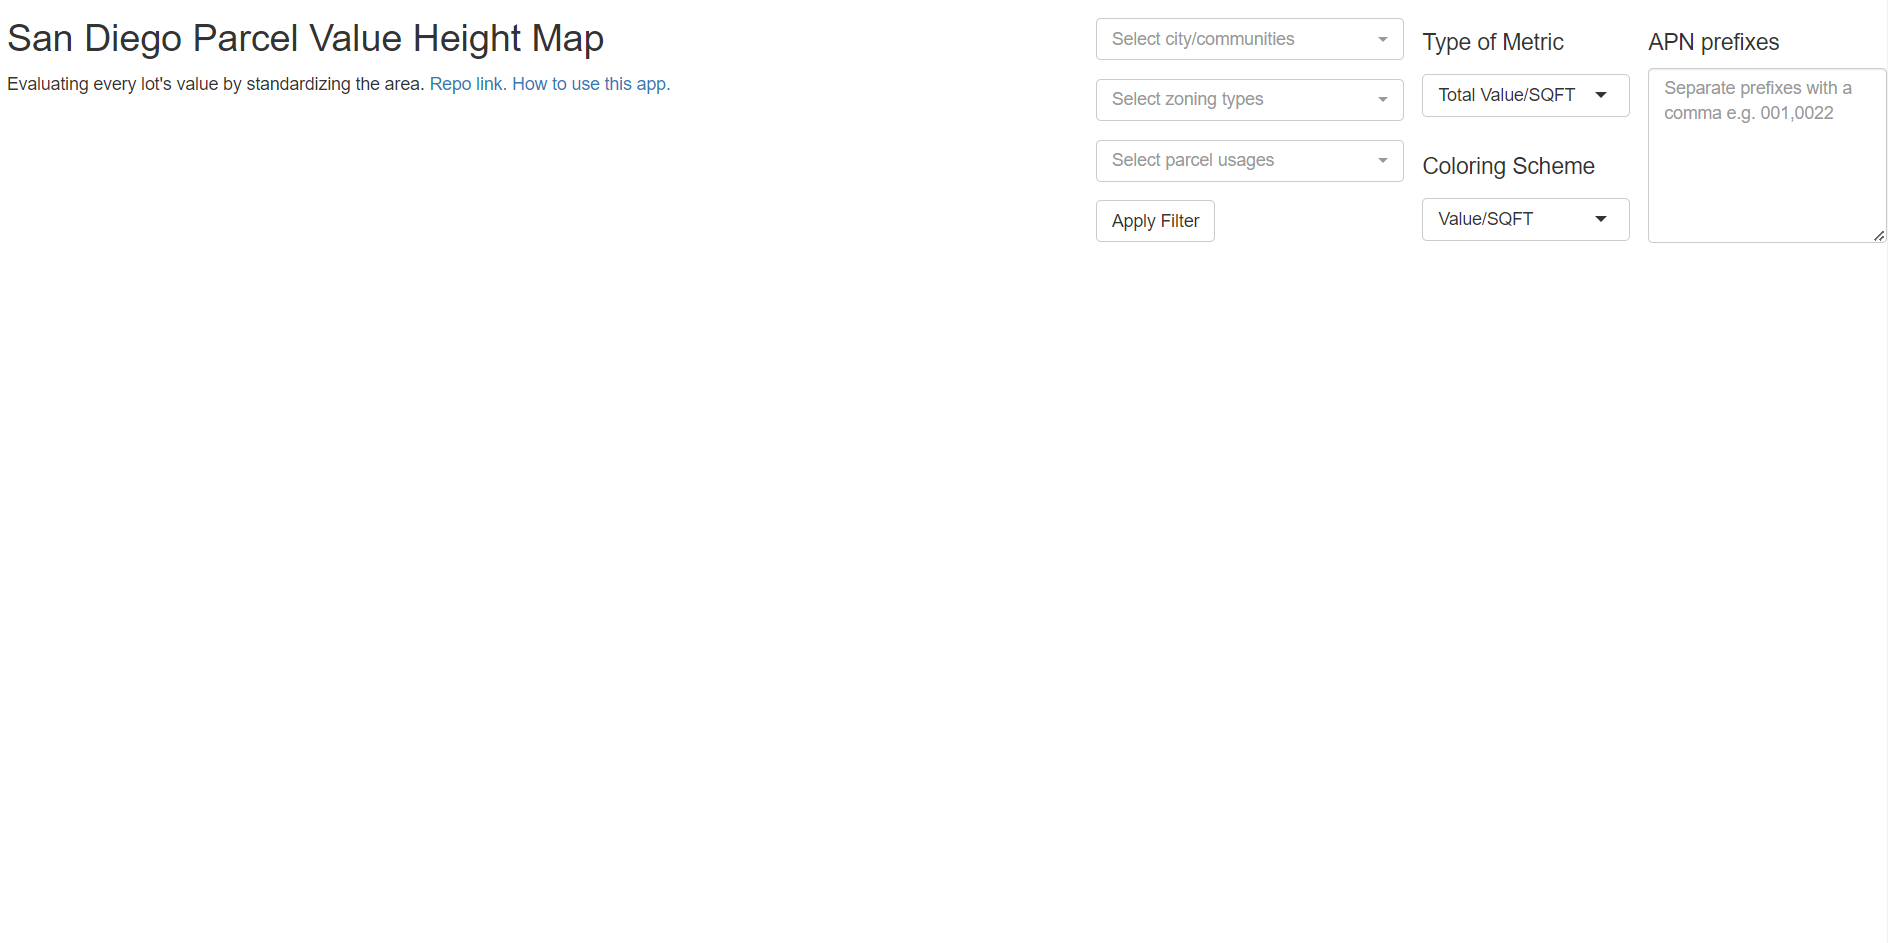
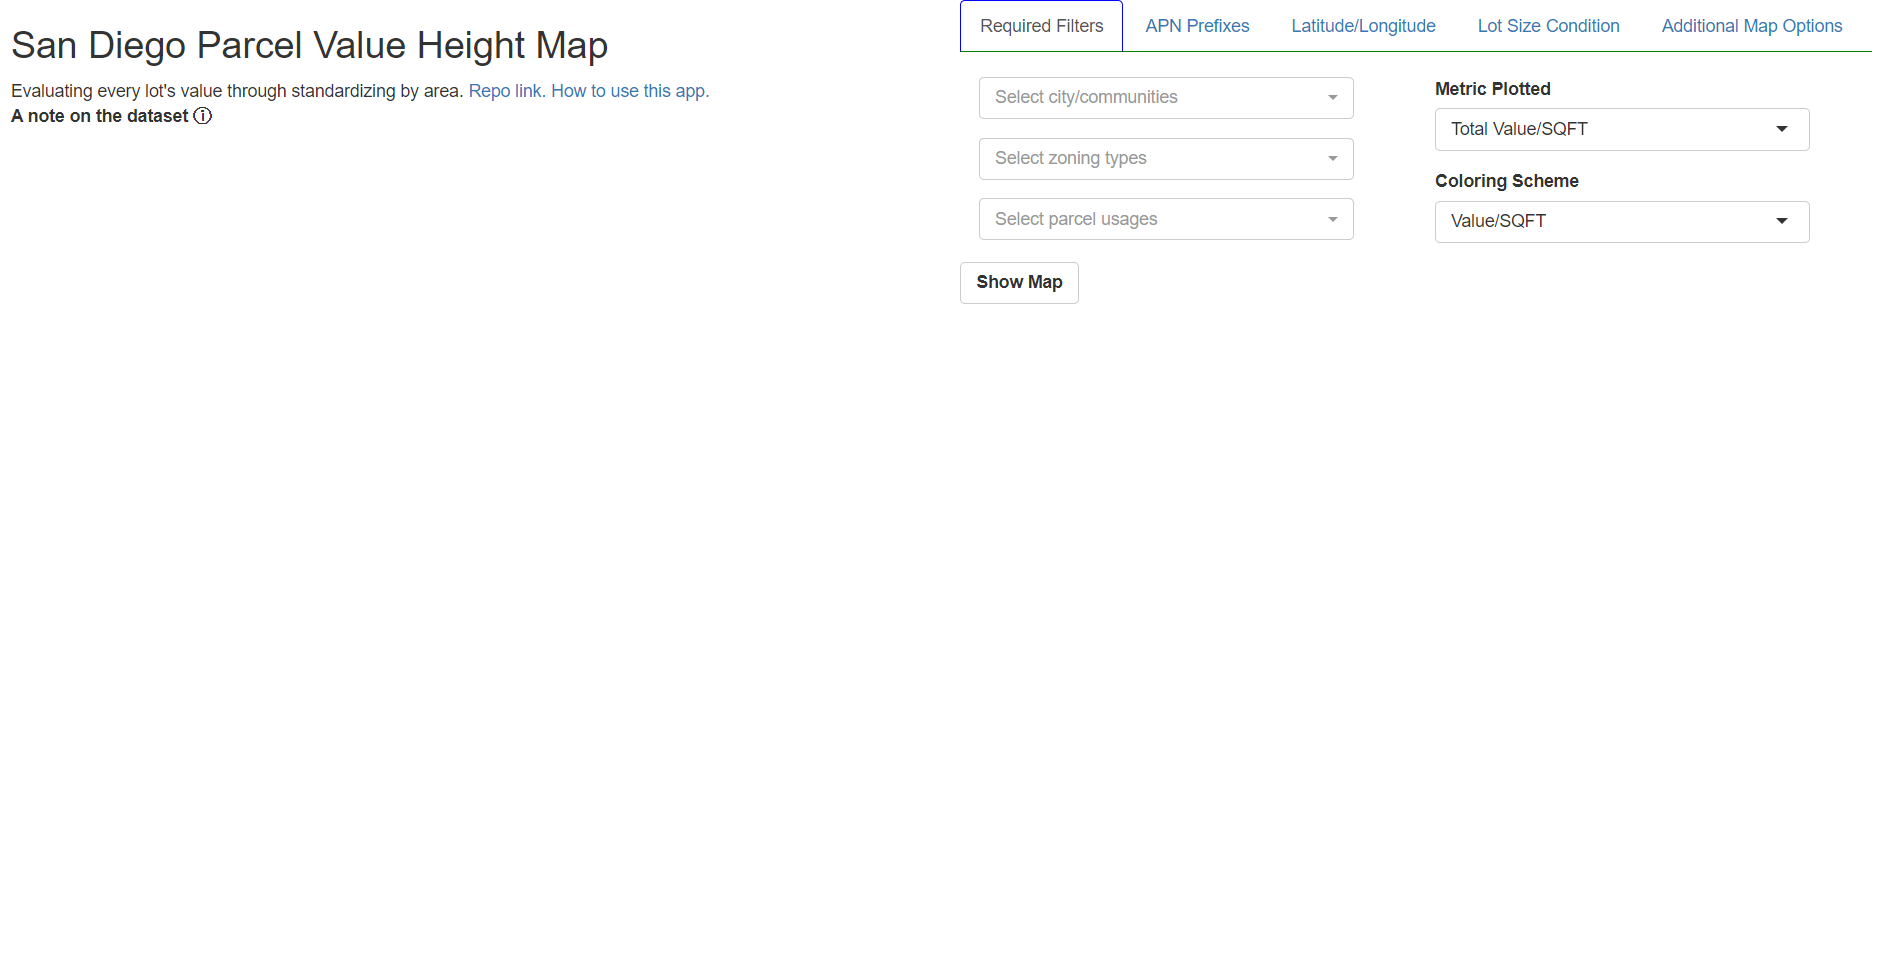
updated README tutorial for new version of dashboard

Changed region(s): [[0.5, 0.0, 0.9688, 0.246], [0.0, 0.0308, 0.375, 0.123], [0.5, 0.2768, 0.5625, 0.3075]]

diff --git a/README.md b/README.md
@@ -1,35 +1,74 @@
 # The value of standardizing value by area
-**The screenshots are taken from older versions of the dashboard.**
-The dashboard shows value/sqft of every taxable parcel in San Diego County. Why value/sqft instead of just value? Because land is the most important resource for the government and we measure yield with a standardized area. To illustrate the immense differences in value/sqft, I will compare the most expensive mansion in La Jolla and a Section 8 housing unit that used to be "where you bought weed".
+**Some screenshots are taken from older versions of the dashboard.**
+The dashboard shows value/sqft of every taxable parcel in San Diego County. Why value/sqft instead of just value? Because land is the most important resource for the government and we measure yield within a standardized area. To illustrate the immense differences in value/sqft, I will compare the most expensive mansion in La Jolla and a Section 8 housing unit that used to be "where you bought weed".
 
 Foxhill Estates is the most expensive property in La Jolla, spanning over 30 acres and just sold at $35 million. That means it is assessed at $25/sqft. In contrast, Meadowbrook Apartments in Bay Terrace is a Section 8 housing unit that houses more than 200 households. It used to be a very sketchy place, albeit in the past 10 years it has been improving. It is assessed at $65/sqft - 280% that of Foxhill Estate's. Therefore for the public to evaluate the efficacy of land, just looking at market or assessed value is not enough. The value must be standardized by area for it to be meaningful.
 
 I am using this methodology to write a paper on how high residential water usage and low property tax efficiency are connected in San Diego.
 
+I have given the dashboard a custom domain: [https://www.sdparcelmap.com](https://www.sdparcelmap.com).
+
 # How to use the app
+1. Basics
+
 When you open the link, the website looks like this:
 ![](https://raw.githubusercontent.com/bmhking/Parcel_value_app/main/tutorial/tutorial_1.PNG)
-There are three columns of filters. After setting all the filters, you can click the `Apply Filter` button and wait for the map to load. For example, the following image shows the results for selecting parcels from every community, zoning type, and parcel usage:
+If you directly click `Show Map`, the following message will pop up:
 ![](https://raw.githubusercontent.com/bmhking/Parcel_value_app/main/tutorial/tutorial_2.PNG)
-The left side is the map, while the right side includes summary statistics for every zoning type.
+You will need to select the city/community, zoning, and usages to map. These are the required filters. For example, the following image shows the results for selecting parcels from every community, zoning type, and parcel usage (the entire county):
 ![](https://raw.githubusercontent.com/bmhking/Parcel_value_app/main/tutorial/tutorial_3.PNG)
-Scrolling down gives the summary statistics for every usage type.
+The left side is the map, while the right side includes summary statistics for every zoning type.
+The following cities/communities are included in the SANDAG dataset:
+>AGUANGA, ALPINE, BONITA, BONSALL, BORREGO SPRINGS, BOULEVARD, CAMP PENDLETON, CAMPO, CARDIFF BY THE SEA, CARLSBAD, CHULA VISTA, CORONADO, DEL MAR, DESCANSO, DULZURA, EL CAJON, ENCINITAS, ESCONDIDO, FALLBROOK, GUATAY, IMPERIAL BEACH, JACUMBA, JAMUL, JULIAN, LA JOLLA, LA MESA, LAKESIDE, LEMON GROVE, LEUCADIA, MOUNT LAGUNA, NATIONAL CITY, OCEANSIDE, OCOTILLO, OLIVENHAIN, PALA, PALOMAR MOUNTAIN, PAUMA VALLEY, PINE VALLEY, POTRERO, POWAY, RAINBOW, RAMONA, RANCHITA, RANCHO SANTA FE, SAN CLEMENTE, SAN DIEGO, SAN MARCOS, SAN YSIDRO, SANTA YSABEL, SANTEE, SOLANA BEACH, SPRING VALLEY, TECATE, VALLEY CENTER, VISTA, WARNER SPRINGS
 
-In the first column, you can select different communities/zoning types/usages to map. The communities are taken from SANDAG, and selecting all of them gives you the full county. Note that the zoning types and usages are two separate classfications: just because a parcel is zoned for a specific type does not mean that the usage of the parcel is limited to that zoning type (e.g. a single family home zoning type parcel might still be a duplex or small corner store).
-
-The second column decides what value is plotted and the coloring scheme. There are three values to select: land, improvement, and total value per sqft. Land value + improvement value = total value. There are two coloring schemes: by value and by zoning type. The zoning type color scheme is taken from [New York's zoning guide](https://www.nyc.gov/assets/planning/download/pdf/applicants/applicant-portal/area_map_standard.pdf). The value color scheme was created by me to cater specifically to the three value types in San Diego County. While for all three value types, the color goes from dark green to red to blue, for each of the three value types, the thresholds are different.
-
-The third column is the APN box which allows you to write in prefixes for the 10-digit APN numbers associated with every parcel. The app will only show parcels that begin with those prefixes (you can enter any amount of prefixes, and there is no prefix digit requirement). Separate every prefix with a comma. Use [SANDAG's Parcel Lookup Tool](https://sdgis.sandag.org/) to find APNs of specific parcels. Here is an example for Alvarado Estates:
-![](https://raw.githubusercontent.com/bmhking/Parcel_value_app/main/example_alvaradoestates.png)
-Another example for Convoy district. All parcels in Convoy have an APN that start with 356:
-![](https://raw.githubusercontent.com/bmhking/Parcel_value_app/main/tutorial/tutorial_convoy.PNG)
+The `Download Data` button allows you to download statistics for every parcel mapped. In the previous case of the entire San Diego County, you will get more than 700,000 rows.
+The tooltip also tells you that scrolling down gives the summary statistics for every usage type.
+![](https://raw.githubusercontent.com/bmhking/Parcel_value_app/main/tutorial/tutorial_4.PNG)
 Hovering over a column will show you information about that parcel:
-![](https://raw.githubusercontent.com/bmhking/Parcel_value_app/main/tutorial/tutorial_convoy_column.PNG)
+![](https://raw.githubusercontent.com/bmhking/Parcel_value_app/main/tutorial/tutorial_5.PNG)
+This will allow you to use the app directly. However, I have included additional functionality to select parcels more precisely.
+
+2. APN Prefixes
+
+Every parcel in San Diego is assigned a 10-digit APN. Some parcels include many subparcels (for example, condo buildings will have as many subparcels as there are units), and in that case the APN that I will use will be the range; for example, a 10-subparcel lot with subparcels 0000000001, 0000000002, ..., 0000000010 will be assigned APN 0000000001-0000000010.
+The dashboard provides a way to filter through APN prefixes. The APN prefixes can be of any length and must be separated by commas. Use [SANDAG's Parcel Lookup Tool](https://sdgis.sandag.org/) to find APNs of specific parcels. Here is an example for Alvarado Estates:
+![](https://raw.githubusercontent.com/bmhking/Parcel_value_app/main/tutorial/tutorial_6.PNG)
+Another example for Convoy district. All parcels in Convoy have an APN that start with 356:
+![](https://raw.githubusercontent.com/bmhking/Parcel_value_app/main/tutorial/tutorial_7.PNG)
+Selecting "exclude" will show every parcel except those with the corresponding prefixes. The following example excludes all parcels in Convoy (highlighted area is the location of Convoy):
+![](https://raw.githubusercontent.com/bmhking/Parcel_value_app/main/tutorial/tutorial_8.PNG)
+
+3. Latitude/Longitude
+
+The dashboard allows for quick results by showing all parcels in a certain range of a given coordinate represented in Latitude and Longitude. All entries are in degrees. For example, San Diego's centroid is (32.7157, -117.1611) and 0.01 degrees in difference is around 1 mile, making the area selected being a 2 mile $/times$ 2 mile square. The resulting map is a good approximation of downtown San Diego:
+![](https://raw.githubusercontent.com/bmhking/Parcel_value_app/main/tutorial/tutorial_9.PNG)
+
+4. Lot Size Condition
+
+For people interested in lot sizes. Both minimum and maximum lot size conditions can be added.
+For example, Encanto recently revolted over the city footnote to change RS-1-2 (single family home lot with at least 20,000 sqft lot size) to RS-1-7 (single family home lot wit at least 5,000 sqft lot size), forcing the city to return the area to a RS-1-2 zoning.
+The RS-1-2 zones in Encanto covera round 541 single family homes.
+![](https://raw.githubusercontent.com/bmhking/Parcel_value_app/main/tutorial/tutorial_10.PNG)
+Only 233 of these, or 43% of them have a lot size of over 20,000 sqft. Encanto is revolting so their homes are illegal again.
+![](https://raw.githubusercontent.com/bmhking/Parcel_value_app/main/tutorial/tutorial_11.PNG)
+
+5. Additional Map Options
+
+There are two ways to enhance readability of the maps: changing map mode and map height multipliers.
+There are three map modes: the default option which plots the value/sqft as height, the square root option which plots the square root of the value/sqft as height, and the 2d option which plots every parcel in a same height plot:
+![](https://raw.githubusercontent.com/bmhking/Parcel_value_app/main/tutorial/tutorial_12_1.PNG)
+![](https://raw.githubusercontent.com/bmhking/Parcel_value_app/main/tutorial/tutorial_12_2.PNG)
+![](https://raw.githubusercontent.com/bmhking/Parcel_value_app/main/tutorial/tutorial_12_3.PNG)
+
+The map height multiplier option further inflates or deflates column height (applies for all three modes). For example, the default version of an Aguanga map is hard to read:
+![](https://raw.githubusercontent.com/bmhking/Parcel_value_app/main/tutorial/tutorial_13_1.PNG)
+Applying a height multiplier of 1000 makes it much easier to view:
+![](https://raw.githubusercontent.com/bmhking/Parcel_value_app/main/tutorial/tutorial_13_2.PNG)
 
 # How to load the app in local
 This app requires `Shiny` to run in local. 
-I recommend using RStudio to run most R tasks, since RStudio integrates so well with many of the core functionalities of the language.  
-Once you download RStudio, download the required libraries in `ui.R` and `server.R` (including `shiny`) (or use the `renv.lock` file to download the environment - requires `renv` package). Then, replace the default `data/parcel_value_sdcounty.csv` with the extracted one in the root menu, and click the `Run App` button in the RStudio interface. 
+I recommend using RStudio to run most R tasks, since RStudio integrates so well with many of the core functionalities of the language (I prefer VIM for other languages so that tells you a lot about how great RStudio is).  
+Once you download RStudio, download the required libraries in `ui.R` and `server.R` (including `shiny`) (or use the `renv.lock` file to download the environment - requires `renv` package). Click the `Run App` button in the RStudio interface. 
 
 # Further examples of what you can do with the app:
 1. Rancho Santa Fe analysis
